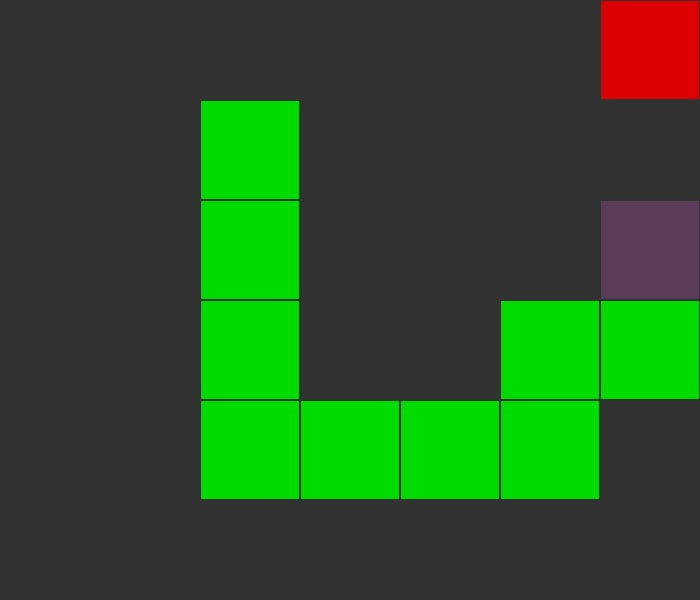
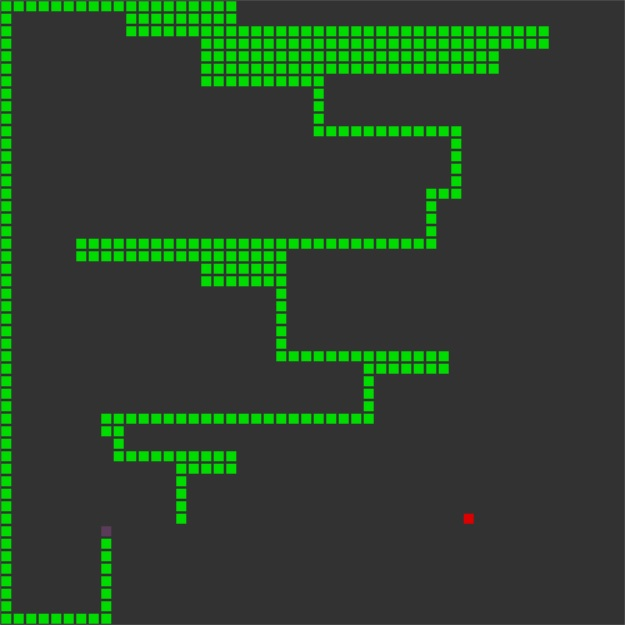
Fix problem with fast generating hamiltonian cycle

diff --git a/snake/ai/cycle.py b/snake/ai/cycle.py
@@ -1,0 +1,82 @@
+from snake.base_game.config import Config
+
+
+class Cycle:
+    def __init__(self, config):
+        self.moves = [[-1, 0], [0, 1], [1, 0], [0, -1]]
+        self.x_size = int(config.SCREEN_WIDTH / config.RECT_DIM)
+        self.y_size = int(config.SCREEN_HEIGHT / config.RECT_DIM)
+        self.init_x = 0
+        self.init_y = 0
+        self.board = []
+        self.stack = []
+        self.init_board()
+
+    def init_board(self):
+        self.board = [[0] * self.y_size for _ in range(self.x_size)]
+        for i in range(self.x_size):
+            for j in range(self.y_size):
+                self.board[i][j] = -len(self.valid_moves(i, j))
+
+    def valid_moves(self, x, y):
+        moves = []
+        for move in self.moves:
+            _x = x + move[0]
+            _y = y + move[1]
+            if 0 <= _x < self.x_size and 0 <= _y < self.y_size and self.board[_x][_y] < 1:
+                moves.append((_x, _y))
+        return moves
+
+    def prioritise(self, moves):
+        weights = map(lambda x: self.board[x[0]][x[1]], moves)
+        _list = (list(zip(*sorted(list(zip(weights, moves))))))
+        return _list[1]
+
+    def update(self, moves, amount):
+        for move in moves:
+            self.board[move[0]][move[1]] += amount
+
+    def current(self):
+        return self.stack[-1][1][self.stack[-1][0]]
+
+    def next(self):
+        if not self.stack[-1][0]:
+            return ()
+
+        self.stack[-1][0] -= 1
+        return self.current()
+
+    def find_cycle(self):
+        depth = 1
+        self.board[self.init_x][self.init_y] = depth
+
+        moves = self.prioritise(self.valid_moves(self.init_x, self.init_y))
+        self.update(moves, 1)
+        self.stack.append([len(moves), moves])
+
+        while True:
+            move = self.next()
+            if move and self.valid_moves(self.init_x, self.init_y):
+                depth += 1
+                self.board[move[0]][move[1]] = depth
+                if depth == self.x_size * self.y_size:
+                    return self.get_path()
+                moves = self.prioritise(self.valid_moves(move[0], move[1]))
+                self.update(moves, 1)
+                self.stack.append([len(moves), moves])
+            else:
+                moves = self.stack.pop()[1]
+                if not self.stack:
+                    return False
+                undo = self.current()
+                self.board[undo[0]][undo[1]] = -len(moves)
+                self.update(moves, -1)
+                depth -= 1
+
+    def get_path(self):
+        path = list(range(self.x_size * self.y_size))
+        for y in range(len(self.board)):
+            for x in range(len(self.board[0])):
+                field_id = y * len(self.board[0]) + x
+                path[self.board[y][x] - 1] = field_id
+        return path

diff --git a/snake/ai/hamiltonian.py b/snake/ai/hamiltonian.py
@@ -1,57 +1,16 @@
 import operator
-import sys
+
+from snake.ai.cycle import Cycle
 
 
 class Hamiltonian:
     def __init__(self, table, config):
         self.tab = table
-        self.start = self.tab.get_head_id()
         self.vertices = self.tab.vertices
-        self.graph = table.graph
-        self.path = []
-        self.path_counter = 0
-        self.hamiltonian_cycle()
         self.config = config
-
-    def is_safe(self, v, pos, path):
-        if self.graph[path[pos - 1]][v] == 0:
-            return False
-
-        # Check if current vertex not already in path
-        for vertex in path:
-            if vertex == v:
-                return False
-        return True
-
-    def hamiltonian_utils(self, path, pos):
-        if pos == self.vertices:
-            if self.graph[path[pos - 1]][path[0]] == 1:
-                return True
-            else:
-                return False
-
-        for v in range(0, self.vertices):
-            if self.is_safe(v, pos, path):
-                path[pos] = v
-
-                if self.hamiltonian_utils(path, pos + 1):
-                    return True
-
-                # Remove current vertex if it doesn't
-                # lead to a solution
-                path[pos] = -1
-        return False
-
-    def hamiltonian_cycle(self):
-        path = [-1] * self.vertices
-        path[0] = self.start
-
-        if self.vertices % 2 or not self.hamiltonian_utils(path, 1):
-            print('Solution does not exist. Try grid with even number of fields.')
-            sys.exit()
-
-        self.path = path
-        self.print_solution()
+        self.cycle = Cycle(config)
+        self.path = self.cycle.find_cycle()
+        self.path_counter = 0
 
     def hamiltonian_move(self, snake, food):
         current_position, shortcut = self.take_shortcut(food, snake)
@@ -68,6 +27,7 @@ class Hamiltonian:
         food_position, head_position, tail_position = self.get_food_and_snake_position(food, snake)
 
         head_index = self.path.index(head_position)
+        self.path_counter = head_index
         tail_index = self.path.index(tail_position)
         food_index = self.path.index(food_position)
 

diff --git a/snake/ai/state_table.py b/snake/ai/state_table.py
@@ -12,8 +12,8 @@ class StateTable:
         self.vertices = ((config.SCREEN_WIDTH // config.RECT_DIM) * (config.SCREEN_HEIGHT // config.RECT_DIM))
         self.node_tab = np.empty((config.SCREEN_WIDTH // config.RECT_DIM, config.SCREEN_HEIGHT // config.RECT_DIM),
                                  dtype=object)
-        self.graph = [[0 for column in range(self.vertices)] for row in range(self.vertices)]
         self.make_state_table()
+        self.possibilities_of_move()
 
     # empty - 0, edge - 1, head - 2, body - 3
     def make_state_table(self):
@@ -50,18 +50,6 @@ class StateTable:
 
                     self.node_tab[x - 1, y - 1] = new_node
                     node_id += 1
-
-        for x in range(self.node_tab.shape[0]):
-            for y in range(self.node_tab.shape[1]):
-                if self.node_tab[x, y] is not None:
-                    if self.node_tab[x, y].left:
-                        self.graph[self.node_tab[x, y].id][self.node_tab[x - 1, y].id] = 1
-                    if self.node_tab[x, y].right:
-                        self.graph[self.node_tab[x, y].id][self.node_tab[x + 1, y].id] = 1
-                    if self.node_tab[x, y].up:
-                        self.graph[self.node_tab[x, y].id][self.node_tab[x, y - 1].id] = 1
-                    if self.node_tab[x, y].down:
-                        self.graph[self.node_tab[x, y].id][self.node_tab[x, y + 1].id] = 1
 
     def get_head_id(self):
         for node_row in self.node_tab:

diff --git a/snake/base_game/config.py b/snake/base_game/config.py
@@ -1,14 +1,14 @@
 class Config:
     SAFE_FIELD_SPACE = 5
-    CLOCK_TICK = 10
+    CLOCK_TICK = 30
     FOOD_COLOR = (220, 0, 0)
     SNAKE_COLOR = (0, 220, 0)
     HEAD_COLOR = (90, 60, 90)
     BG_COLOR = (50, 50, 50)
-    RECT_DIM = 100
-    SCREEN_WIDTH = 700
-    SCREEN_HEIGHT = 600
+    RECT_DIM = 10
+    SCREEN_WIDTH = 500
+    SCREEN_HEIGHT = 500
     SNAKE_INIT_LENGTH = 3
     SNAKE_INIT_X = (SNAKE_INIT_LENGTH + 1) * RECT_DIM
-    SNAKE_INIT_Y = SCREEN_HEIGHT / 2 if not SCREEN_HEIGHT % 200 else (SCREEN_HEIGHT / 2) - 50
+    SNAKE_INIT_Y = 30
     AI = True

diff --git a/snake/base_game/game.py b/snake/base_game/game.py
@@ -73,7 +73,6 @@ class Game:
 
     def generate_hamiltonian(self, tab):
         if self.config.AI:
-            tab.possibilities_of_move()
             return Hamiltonian(tab, self.config)
         else:
             return None

diff --git a/README.md b/README.md
@@ -2,7 +2,8 @@
 Implementation of snake game in Python with Pygame.
 
 ### TODO:
-- Find faster way to create hamiltonian cycle
+- Fix bug with start collision
+- Add reaction when cycle does not exist
 
 ## Installation
 After cloning repo to install required packages type command:
